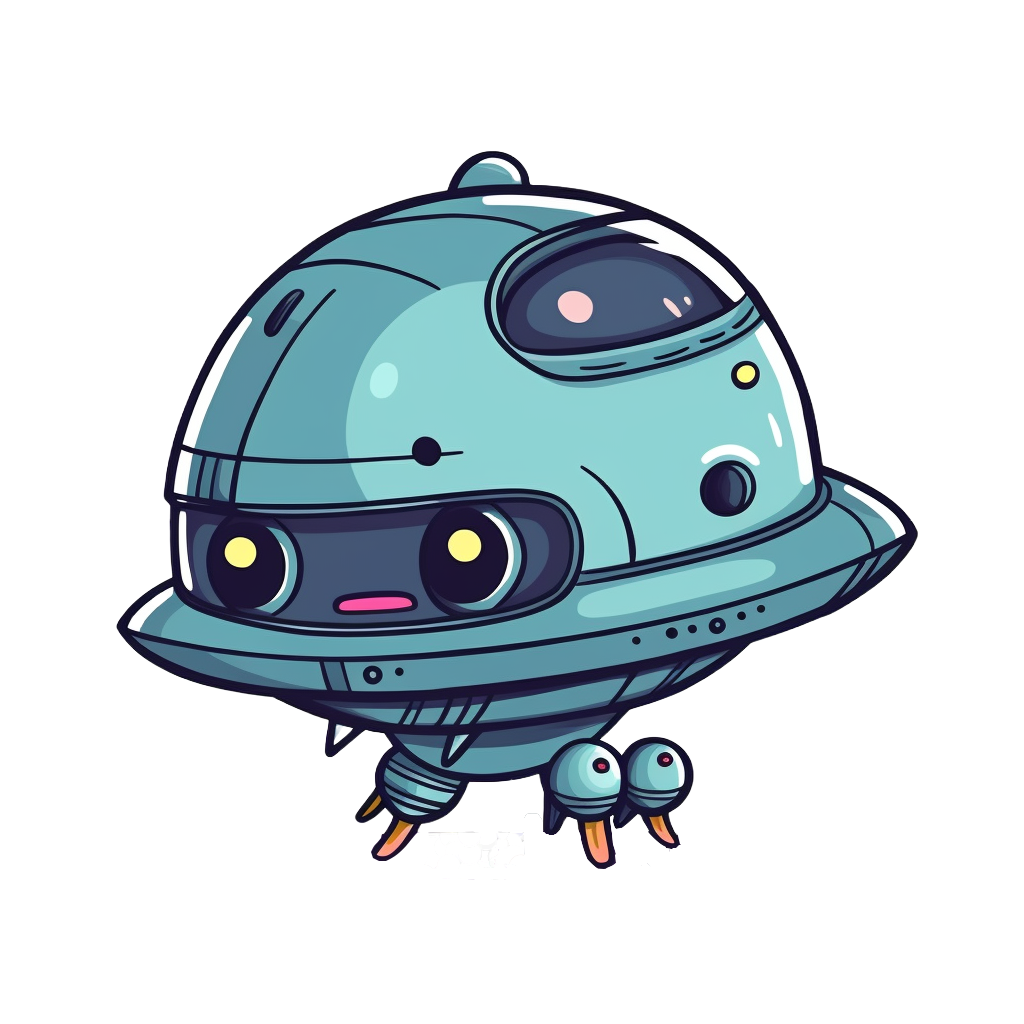
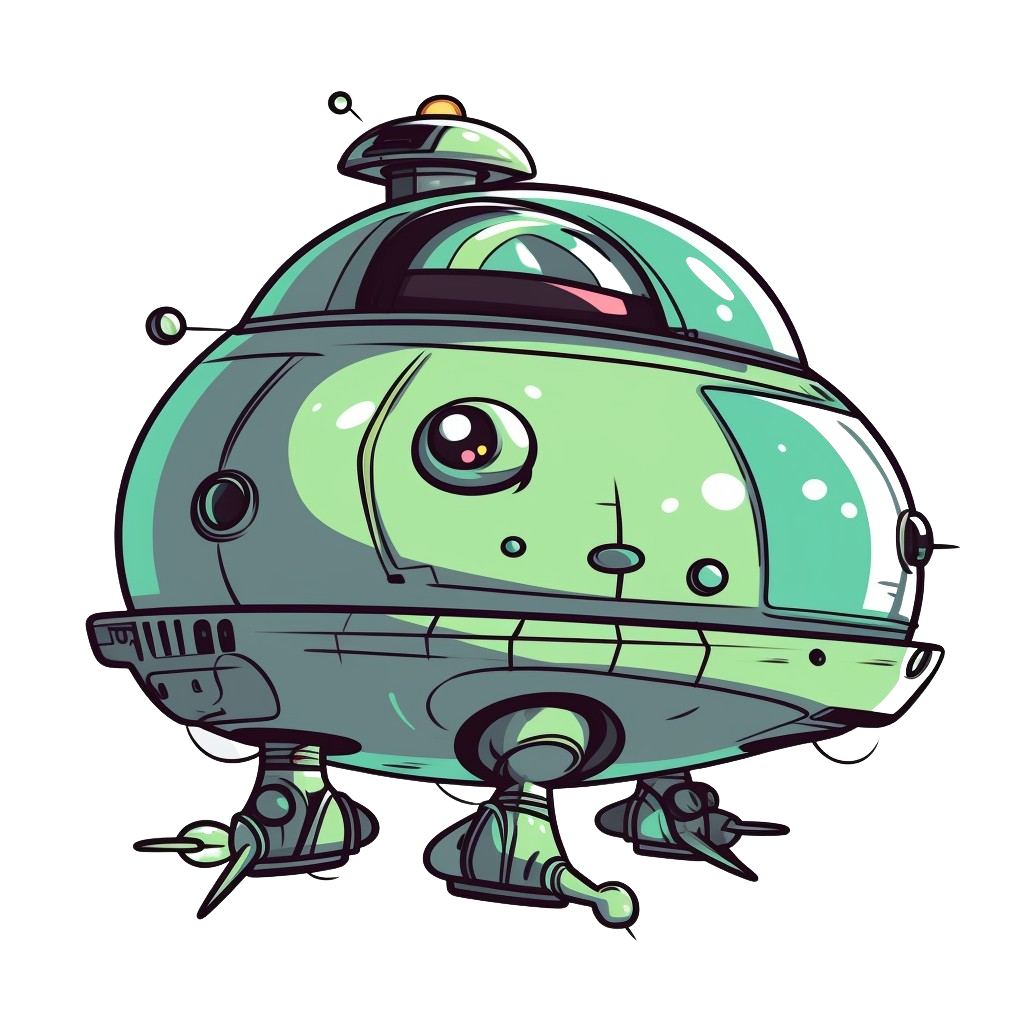
with new imgs enemies

diff --git a/myGame.html b/myGame.html
@@ -30,6 +30,7 @@
               <li><a href="#" id="Home_menu"><img src="resourses/logos/homeLogo.png"></a></li>
               <li><a href="#" id="Logout_menu" style="display: none;"><img src="resourses/logos/logoutLogo.png"></a></li>
               <li><a href="#" id="About_menu"><img src="resourses/logos/aboutLogo.png"></a></li>
+              <li><a href="#" id="Settings_menu"><img src="resourses/logos/SettingsLogo.png"></a></li>
               <li><text id="Score" style="display: none;"></text></li>
               <li><table id="TimerTable" style="display: none;"><tr>
                 <td><img id="TimerImg" src="resourses/logos/TimerLogo.png"></td>
@@ -37,13 +38,10 @@
               </tr> </table>
               </text></li>
               <li id="heartLI" style="display: none;"></li>
-         
-
             </ul>
           </nav>
         </div>
       </td>
-     
     </tr>
     <tr>
       <td>
@@ -76,10 +74,9 @@
         </table>
       </div>
     </form>
-
   </div>
-  <div id="Login" class="Login" style="display: none">
 
+  <div id="Login" class="Login" style="display: none">
     <form>
       <svg width="100%" height="40%">
         <text x="50%" y="80%" text-anchor="middle">
@@ -112,13 +109,11 @@
           </label>
           <br>
           <input class="patterns-button" type="button" value="start" id="StartButton" />
-
-          
         </div>
       </div>
-      
     </form>
   </div>
+
   <div id="EndGame" style="display: none;">
     <form id="EndGameForm">
       <div class="patterns" id="EndGameInDiv">

diff --git a/myGameApp.js b/myGameApp.js
@@ -353,11 +353,13 @@ function muteDivs() {
   document.getElementById("EndGame").style.display = "none";
   document.getElementById("Score").style.display = "none";
   document.getElementById("TimerTable").style.display = "none";
+
   while (document.getElementById("heartLI").firstChild) {
     document
       .getElementById("heartLI")
       .removeChild(document.getElementById("heartLI").firstChild);
   }
+
   document.getElementById("heartLI").style.display = "none";
 }
 
